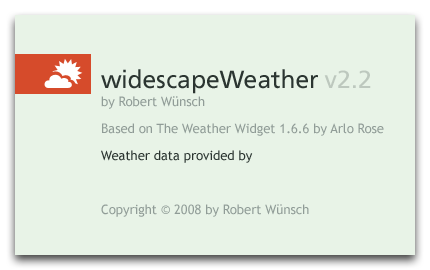
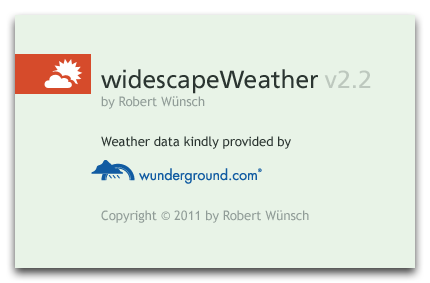
Clean up and credits

diff --git a/javascripts/widescapeWeather.js b/javascripts/widescapeWeather.js
@@ -4,35 +4,29 @@
 
 	Version 2.1.19
 	
-	This Widget grabs the latest current weather data from weather.com and builds
+	This Widget grabs the latest current weather data from wunderground.com and builds
 	it into a nice little iconic representation.
 	
-	For more information about the services weather.com offers, 
-	visit their website at: http://www.weather.com
+	For more information about the API wunderground.com offers, 
+	visit their website at: http://www.wunderground.com/weather/api/
 	
 	
-	Original code from: "The Weather" 1.6.6 by Arlo Rose
-	Modified code from: Robert Wünsch
-	Design: Robert Wünsch ("widescape")
-
-
+	Code, Design and Icons by widescape / Robert Wünsch
+  
 	(c) 2011 widescape / Robert Wünsch - info@widescape.net - www.widescape.net
-	The Weather Widget: (c) 2003 - 2004 Pixoria
-	
-	
-	*** Please don't steal ***
+	Originally based on The Weather Widget: (c) 2003 - 2004 Arlo Rose & Perry Clarke
 	
 	For icon usage licences see /Resources/WeatherIcons/__Weather Icon Copyright and Permissions__.txt
 	or contact Robert Wünsch at info@widescape.net
 */
 
 include("javascripts/settings.js");			// Creates the static environment
-include("javascripts/weather.js");			// Loads weather management
-include("javascripts/design.js");				// Loads design management
-include("javascripts/interaction.js");	// Loads interaction management
-include("javascripts/helpers.js");			// Loads helper methods
+include("javascripts/weather.js");			// Fetched weather and manages locations
+include("javascripts/design.js");				// Layouts the widget
+include("javascripts/interaction.js");	// Manages interactions (like clicks) and animations
+include("javascripts/helpers.js");			// My little helpers
 include("javascripts/versioncheck.js");	// Checks for new widget versions
-include("javascripts/setup.js");				// Prepares for setup
+include("javascripts/setup.js");				// Prepares the widget for setup
 
 //-------------------------------------------------
 // Initialize the widget

diff --git a/javascripts/weather.js b/javascripts/weather.js
@@ -6,7 +6,7 @@
  * Weather Management
  * 
  * 
- * The apiKey MUST NOT be used in 3rd party widgets.
+ * The API key MUST NOT be used in 3rd party widgets.
  * If you make your own weather widget, please visit Weather Underground at:
  * http://www.wunderground.com/weather/api/
  * 
@@ -14,7 +14,7 @@
  * and make sure you abide by their license agreement.
  * 
  * (c) 2011 widescape / Robert Wünsch - info@widescape.net - www.widescape.net
- * The Weather Widget: (c) 2003 - 2004 Pixoria
+ * Originally based on The Weather Widget: (c) 2003 - 2004 Pixoria
  */
 var weatherURL = "http://api.wunderground.com/api/";
 var apiKey = "eb6eabce8e630d4e";

diff --git a/javascripts/settings.js b/javascripts/settings.js
@@ -8,7 +8,7 @@
 
 	
 	(c) 2011 widescape / Robert Wünsch - info@widescape.net - www.widescape.net
-	The Weather Widget: (c) 2003 - 2004 Pixoria
+	Originally based on The Weather Widget: (c) 2003 - 2004 Pixoria
 */
 
 var widgetName		= "widescapeWeather";

diff --git a/javascripts/setup.js b/javascripts/setup.js
@@ -8,7 +8,7 @@
 
 	
 	(c) 2011 widescape / Robert Wünsch - info@widescape.net - www.widescape.net
-	The Weather Widget: (c) 2003 - 2004 Pixoria
+	Originally based on The Weather Widget: (c) 2003 - 2004 Pixoria
 */
 
 // Creates and initializes the basics

diff --git a/javascripts/design.js b/javascripts/design.js
@@ -8,7 +8,6 @@
 
 	
 	(c) 2011 widescape / Robert Wünsch - info@widescape.net - www.widescape.net
-	The Weather Widget: (c) 2003 - 2004 Pixoria
 */
 
 function scaleWidget (reposition, oldTrayOpens) {

diff --git a/javascripts/versioncheck.js b/javascripts/versioncheck.js
@@ -6,7 +6,6 @@
  * Version Check
  * 
  * (c) 2011 widescape / Robert Wünsch - info@widescape.net - www.widescape.net
- * The Weather Widget: (c) 2003 - 2004 Pixoria
  */
 
 var lastVersionCheck;	

diff --git a/javascripts/helpers.js b/javascripts/helpers.js
@@ -8,7 +8,6 @@
 
 	
 	(c) 2011 widescape / Robert Wünsch - info@widescape.net - www.widescape.net
-	The Weather Widget: (c) 2003 - 2004 Pixoria
 */
 
 // Converts a number to a two digit string

diff --git a/javascripts/interaction.js b/javascripts/interaction.js
@@ -8,7 +8,6 @@
 
 	
 	(c) 2011 widescape / Robert Wünsch - info@widescape.net - www.widescape.net
-	The Weather Widget: (c) 2003 - 2004 Pixoria
 */
 
 // Initiates the tray movement
